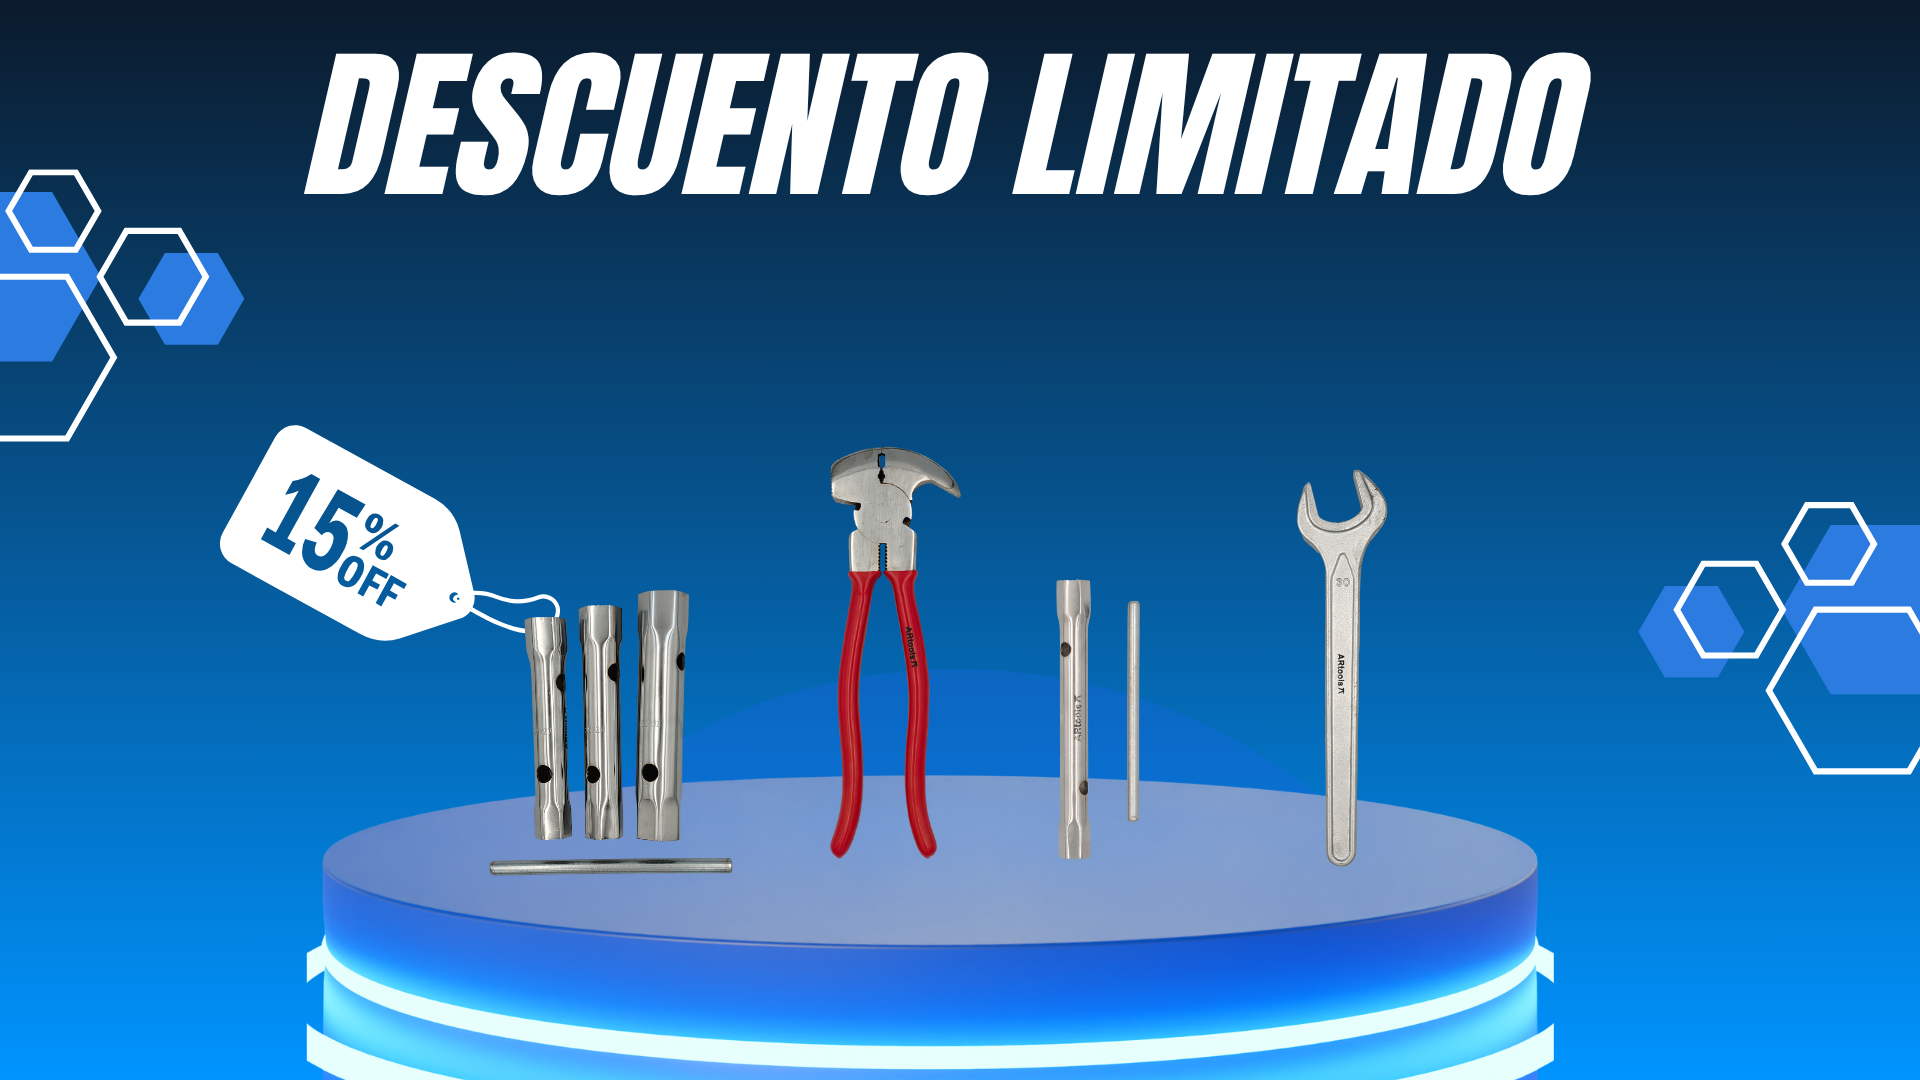
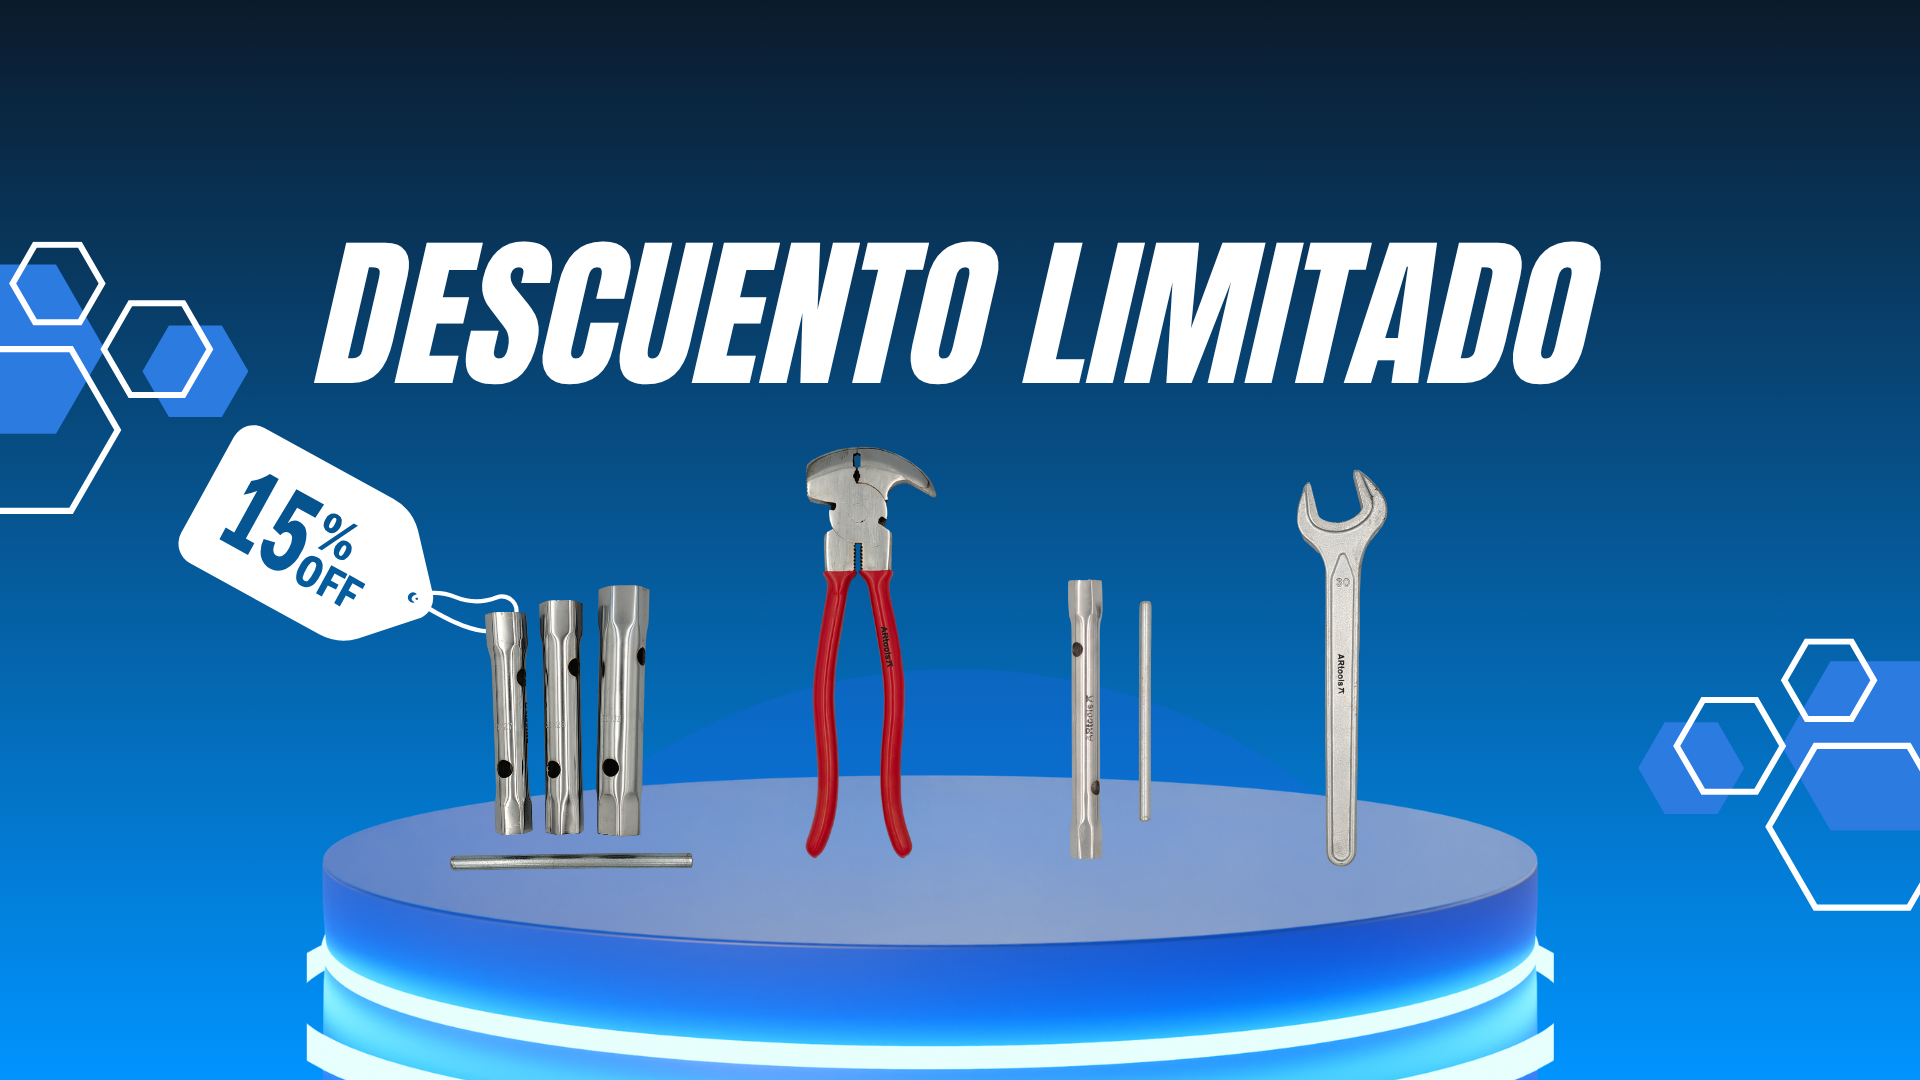
slideshow updates

diff --git a/index.html b/index.html
@@ -39,24 +39,19 @@
     <!-- Enhanced Slideshow -->
     <div class="slideshow relative overflow-hidden">  
       <div class="slides-wrapper flex transition-transform duration-500">
-                <!-- Clone of last slide -->
+        <!-- Clone of last slide -->
         <div class="slide-container relative h-[450px] md:h-[750px] min-w-full">
-          <img src="./src/images/unior2.jpg" 
+          <img src="./src/images/unior3.jpg" 
               alt="Last Slide Clone" 
               class="absolute inset-0 w-full h-full object-cover"
               loading="lazy"
               width="1920"
               height="1080">
           <div class="absolute inset-0 bg-gradient-to-t from-black/70 to-transparent"></div>
-          <div class="catalog absolute bottom-10 md:bottom-[60%] right-2 md:right-[60%] p-4 md:p-8 text-white w-[90%] md:w-[500px] z-10">
-            <div class="catalogTitle text-4xl md:text-6xl font-bold mb-4 md:mb-8">
-              CATALOGO DE PRODUCTOS
+          <div class="about absolute bottom-10 md:bottom-[40%] right-2 md:right-[40%] p-4 md:p-8 text-white w-[90%] md:w-[500px] z-10">
+            <div class="aboutTitle text-4xl md:text-6xl font-bold mb-4 md:mb-8">
+              SOBRE NOSOTROS
             </div>
-            <a href="./src/html/products.html" class="inline-block w-full md:w-auto">
-              <button class="learn-more-btn border-2 border-white px-6 md:px-8 py-2 md:py-3 text-base md:text-lg font-medium hover:bg-white hover:text-mainblue transition-all duration-300 w-full md:w-auto">
-                Vea Todos
-              </button>
-            </a>
           </div>
         </div>
 
@@ -73,18 +68,13 @@
             <div class="howToBuyTitle text-4xl md:text-6xl font-bold mb-4 md:mb-8">
               COMO COMPRAR
             </div>
-            <a href="./src/html/questions.html" class="inline-block w-full md:w-auto">
-              <button class="learn-more-btn border-2 border-white px-6 md:px-8 py-2 md:py-3 text-base md:text-lg font-medium hover:bg-white hover:text-mainblue transition-all duration-300 w-full md:w-auto">
-                Veamos Más
-              </button>
-            </a>
           </div>
         </div>
 
         <!-- Original second slide -->
         <div class="slide-container relative h-[450px] md:h-[750px] min-w-full">
           <img src="./src/images/unior2.jpg" 
-              alt="Slide 1" 
+              alt="Slide 2" 
               class="absolute inset-0 w-full h-full object-cover"
               loading="eager"
               width="1920"
@@ -94,20 +84,31 @@
             <div class="catalogTitle text-4xl md:text-6xl font-bold mb-4 md:mb-8">
               CATALOGO DE PRODUCTOS
             </div>
-            <a href="./src/html/products.html"inline-block w-full md:w-auto">
-              <button class="learn-more-btn border-2 border-white px-6 md:px-8 py-2 md:py-3 text-base md:text-lg font-medium hover:bg-white hover:text-mainblue transition-all duration-300 w-full md:w-auto">
-                Vea Todos
-              </button>
-            </a>
+          </div>
+        </div>
+
+        <!-- New third slide -->
+        <div class="slide-container relative h-[450px] md:h-[750px] min-w-full">
+          <img src="./src/images/unior3.jpg" 
+              alt="Slide 3" 
+              class="absolute inset-0 w-full h-full object-cover"
+              loading="eager"
+              width="1920"
+              height="1080">
+          <div class="absolute inset-0 bg-gradient-to-t from-black/70 to-transparent"></div>
+          <div class="about absolute bottom-10 md:bottom-[40%] right-2 md:right-[40%] p-4 md:p-8 text-white w-[90%] md:w-[500px] z-10">
+            <div class="aboutTitle text-4xl md:text-6xl font-bold mb-4 md:mb-8">
+              SOBRE NOSOTROS
+            </div>
           </div>
         </div>
 
         <!-- Clone of first slide -->
         <div class="slide-container relative h-[450px] md:h-[750px] min-w-full">
           <img src="./src/images/unior1.png" 
-              alt="Slide 1" 
+              alt="First Slide Clone" 
               class="absolute inset-0 w-full h-full object-cover"
-              loading="eager"
+              loading="lazy"
               width="1920"
               height="1080">
           <div class="absolute inset-0 bg-gradient-to-t from-black/70 to-transparent"></div>
@@ -115,17 +116,13 @@
             <div class="howToBuyTitle text-4xl md:text-6xl font-bold mb-4 md:mb-8">
               COMO COMPRAR
             </div>
-            <a href="./src/html/questions.html" class="inline-block w-full md:w-auto">
-              <button class="learn-more-btn border-2 border-white px-6 md:px-8 py-2 md:py-3 text-base md:text-lg font-medium hover:bg-white hover:text-mainblue transition-all duration-300 w-full md:w-auto">
-                Veamos Más
-              </button>
-            </a>
           </div>
         </div>
       </div>
 
       <!-- Enhanced slide navigation -->
       <div class="slide-dots absolute bottom-8 left-1/2 -translate-x-1/2 flex gap-3 z-20">
+        <button class="w-4 h-4 rounded-full bg-white/60 hover:bg-white/90 transition-all duration-300"></button>
         <button class="w-4 h-4 rounded-full bg-white/60 hover:bg-white/90 transition-all duration-300"></button>
         <button class="w-4 h-4 rounded-full bg-white/60 hover:bg-white/90 transition-all duration-300"></button>
       </div>

diff --git a/src/html/utils/wapp.html b/src/html/utils/wapp.html
@@ -1,5 +1,5 @@
 <a href="https://wa.me/+50684451917" target="_blank">
     <button class="wappButton flex flex-col">
-      <i class="fa-brands fa-whatsapp text-[4rem] md:text-[5rem] text-green-500"></i>
+      <i class="fa-brands fa-whatsapp text-[5rem] text-green-500"></i>
     </button>
 </a>
